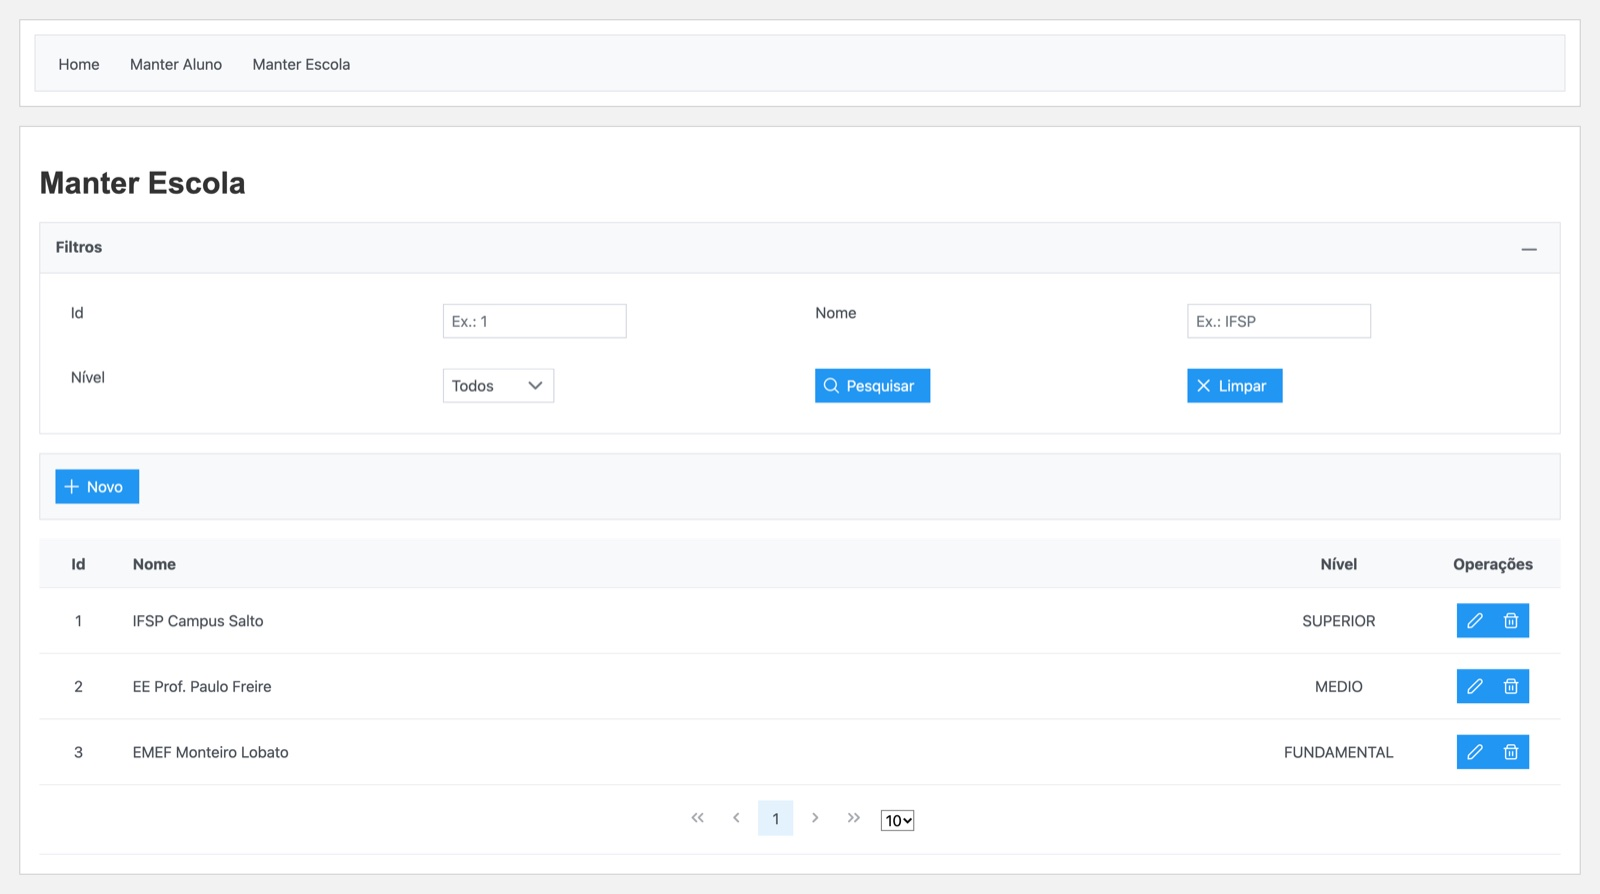
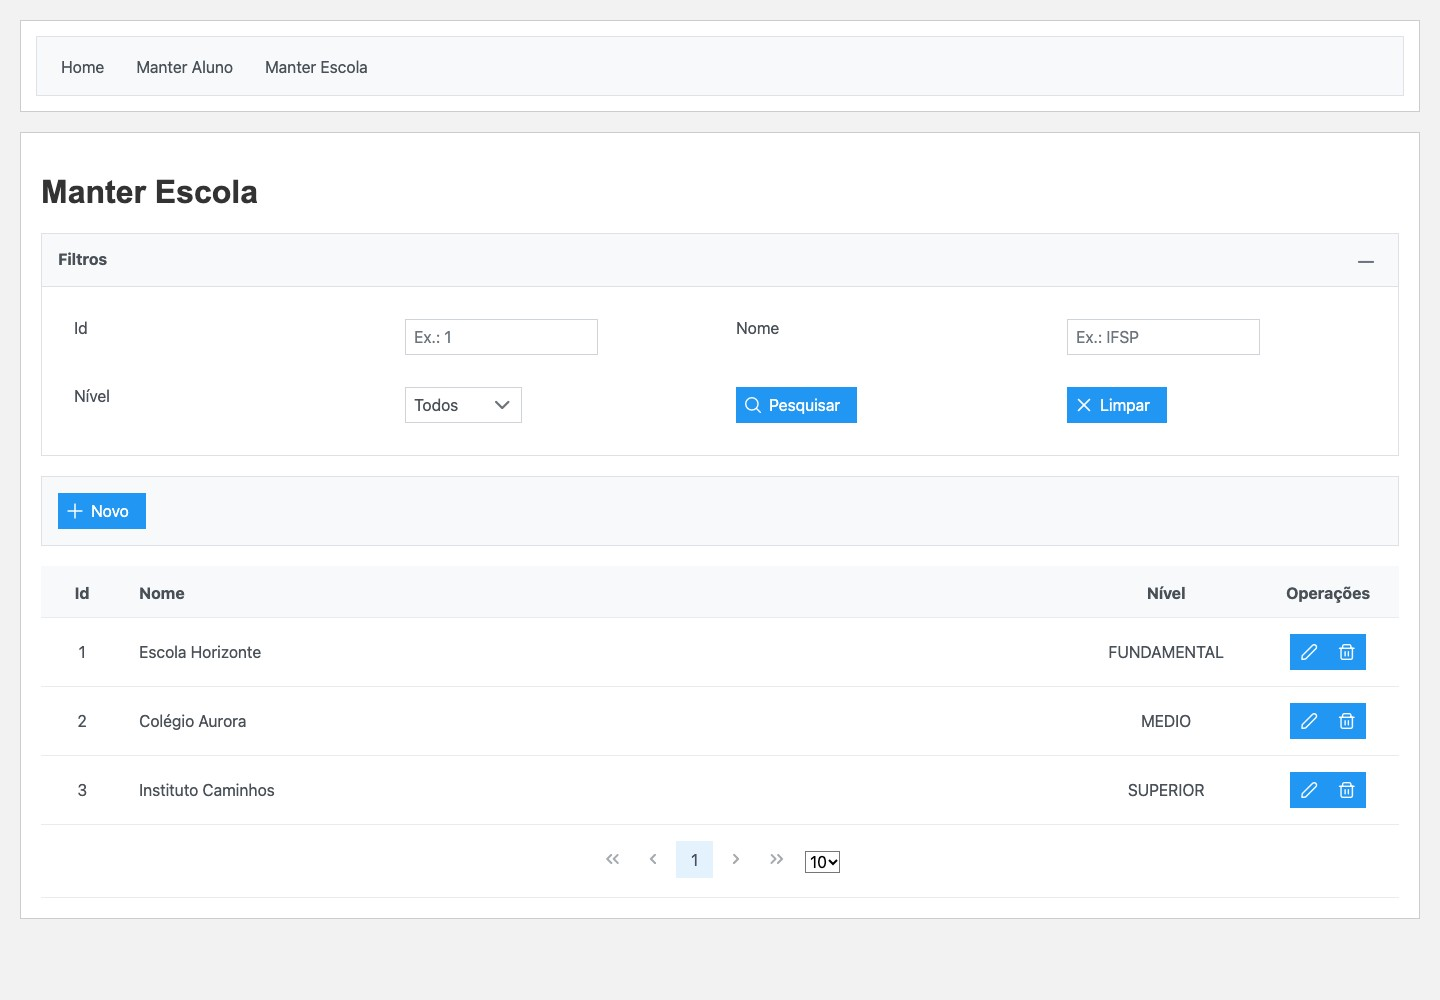
docs: standardize presentation and refresh student and school screenshots

diff --git a/README.md b/README.md
@@ -1,138 +1,118 @@
-# IF-Aluno
+# IF-Aluno — Students and schools
 
-CRUD for **students** (alunos) and **schools** (escolas) built for the Programming Language 2 course (IFSP).
-A Spring Boot REST API stores the data in PostgreSQL. A JSF/PrimeFaces frontend consumes that API.
+A student and school management application with a Spring Boot REST API and a
+JSF/PrimeFaces web interface.
 
-## Features
+**Status:** Academic project · Programming Language 2, IFSP.
 
-- **Students**: create, list, filter, edit and delete.
-  - Fields: name, email, enrollment number, CPF, height, phone, date of birth and active.
-  - Validation: name with 3 to 100 characters, valid email, CPF in the `XXX.XXX.XXX-XX` format, height greater than zero, phone like `(16) 99123-4567` and date of birth in the past. All fields are required.
-  - Email and enrollment number are unique. A duplicate value returns `409 Conflict`.
-- **Schools**: create, list, filter, edit and delete.
-  - Fields: name (3 to 100 characters) and level (`FUNDAMENTAL`, `MEDIO` or `SUPERIOR`).
-- **Filters**: text fields are matched by substring, case-insensitive. An omitted filter is ignored.
-- **Errors**: validation failures and malformed data return `400` with a standard JSON body (`mensagem`, `mensagens` and `campos`, which holds the error for each field).
+[![CI](https://github.com/ErickHTF/IF-Aluno/actions/workflows/ci.yml/badge.svg)](https://github.com/ErickHTF/IF-Aluno/actions/workflows/ci.yml)
 
-## Screenshots
+[Run locally](#run-locally) · [Development guide](docs/development.md) ·
+[Architecture](docs/architecture.md) · [API reference](docs/api.md)
 
-![Students screen: filters, list and actions](docs/screenshots/students.jpg)
+![Student management screen with filters and registered students](docs/screenshots/students.jpg)
 
 <details>
-<summary>Schools screen</summary>
+<summary>School management</summary>
 
-![Schools screen](docs/screenshots/schools.jpg)
+![School management screen with registered schools](docs/screenshots/schools.jpg)
+
 </details>
 
-## Architecture
+_The interface is in Brazilian Portuguese. Screenshots use synthetic data._
 
-```
-Browser ──► JSF Frontend (Tomcat 9, :8080) ──HTTP/JSON──► Spring Boot API (:8081) ──JPA──► PostgreSQL (Docker, :5433)
-```
+## Overview
 
-| Folder | Contents |
-|---|---|
-| `/` (root) | REST API, `com.demo` package, with `aluno`, `escola` and `config` modules |
-| `frontend/if-aluno-jsf` | JSF/PrimeFaces frontend, packaged as a WAR |
+IF-Aluno demonstrates a server-rendered Java frontend consuming a separate REST
+API. Both student and school records support a complete management workflow.
 
-The frontend calls the API at `http://localhost:8081/demo-api`. That URL is set in `ifaluno.utils.JsonUtils.BASE_API`.
+- Create, list, filter, edit and delete students and schools.
+- Validate student contact information, enrollment and birth dates.
+- Reject duplicate email addresses and enrollment numbers.
+- Display field validation and API errors in the interface.
 
-## Requirements
+## Stack
 
-| Item | Version |
-|---|---|
-| JDK | 21 (the API uses Java 21; the frontend compiles to Java 17) |
-| Docker / Docker Compose | any recent version (to run PostgreSQL 13.22) |
-| Maven | no install needed: use the `mvnw` wrapper (Maven 3.9.16) |
+| Layer             | Technologies                             |
+| ----------------- | ---------------------------------------- |
+| Frontend          | JSF, PrimeFaces, Weld, Tomcat 9          |
+| Backend           | Java 21, Spring Boot 4, Spring Data JPA  |
+| Database          | PostgreSQL 13, Docker Compose            |
+| API documentation | springdoc-openapi                        |
+| Verification      | Maven, Spring Boot tests, GitHub Actions |
 
-Main dependencies: Spring Boot 4.1.0, springdoc-openapi 2.8.6, JSF (Mojarra) 2.4.0, PrimeFaces 14.0.0, Weld 3.1.9 and Tomcat 9.0.98, which Cargo downloads on its own.
+## Run locally
 
-## Getting Started
-
-Run the steps in order, each in its own terminal.
-
-**Linux / macOS**
+Install **Java 21**, **Git**, and **Docker with Docker Compose**. Maven is
+included through the wrappers.
 
 ```bash
-# 1. Database (from the root)
+git clone https://github.com/ErickHTF/IF-Aluno.git
+cd IF-Aluno
+```
+
+Run these commands in separate terminals, starting from the repository root:
+
+```bash
+# Terminal 1 — database
 docker compose up -d
+```
 
-# 2. API (from the root)
+```bash
+# Terminal 2 — API on port 8081
 ./mvnw spring-boot:run
+```
 
-# 3. Frontend
+```bash
+# Terminal 3 — JSF frontend on port 8080
 cd frontend/if-aluno-jsf
 ./mvnw clean package cargo:run
 ```
 
-**Windows (cmd / PowerShell)**
+Open [localhost:8080/if-aluno-jsf/](http://localhost:8080/if-aluno-jsf/).
+Cargo downloads Tomcat and deploys the frontend WAR. The API creates the database
+tables on startup.
 
-```bat
-:: 1. Database (from the root)
-docker compose up -d
+See the [development guide](docs/development.md) for Windows commands, dependency
+versions, database credentials and service URLs.
 
-:: 2. API (from the root)
-mvnw.cmd spring-boot:run
+## Verification
 
-:: 3. Frontend
-cd frontend\if-aluno-jsf
-mvnw.cmd clean package cargo:run
-```
-
-In IntelliJ, you can also start the API with the Run button on `DemoApplication`.
-
-Tables are created automatically on first run (`ddl-auto=update`).
-
-## Ports and URLs
-
-| Service | Port | URL |
-|---|---|---|
-| PostgreSQL (Docker) | 5433 | `jdbc:postgresql://localhost:5433/Aluno` (user `aluno_user`, password `aluno_password`) |
-| API (Spring Boot) | 8081 | http://localhost:8081/demo-api |
-| Swagger UI | 8081 | http://localhost:8081/swagger-ui/index.html |
-| Frontend (Tomcat 9) | 8080 | http://localhost:8080/if-aluno-jsf/ |
-
-## API Endpoints
-
-All endpoints live under the `/demo-api` prefix.
-
-| Method | Route | Description |
-|---|---|---|
-| GET | `/alunos` | Lists all students |
-| GET | `/alunos/{id}` | Gets a student by id (`404` if not found) |
-| GET | `/aluno?id=&nome=&email=&matricula=` | Filters students (all parameters are optional) |
-| POST | `/alunos` | Creates a student (`201`) |
-| PUT | `/alunos/{id}` | Updates a student (`404` if not found) |
-| DELETE | `/alunos/{id}` | Deletes a student |
-| GET | `/escolas` | Lists all schools |
-| GET | `/escolas/{id}` | Gets a school by id (`404` if not found) |
-| GET | `/escola?id=&nome=&nivel=` | Filters schools (all parameters are optional) |
-| POST | `/escolas` | Creates a school (`201`) |
-| PUT | `/escolas/{id}` | Updates a school (`404` if not found) |
-| DELETE | `/escolas/{id}` | Deletes a school |
-
-Example body for `POST /demo-api/alunos`:
-
-```json
-{
-  "nome": "João Silva",
-  "email": "email@aluno.ifsp.edu.br",
-  "matricula": "SP123456",
-  "cpf": "358.823.769-41",
-  "altura": 1.75,
-  "telefone": "(16) 99123-4567",
-  "dtNasc": "2005-03-15",
-  "ativo": true
-}
-```
-
-The Postman collections are in `src/main/resources/`.
-
-## Build and Tests
+Keep the local PostgreSQL database running, then execute from the repository root:
 
 ```bash
-./mvnw verify                                  # API (the test needs Postgres running)
-cd frontend/if-aluno-jsf && ./mvnw package     # produces target/if-aluno-jsf.war
+./mvnw verify
+cd frontend/if-aluno-jsf
+./mvnw package
 ```
 
-GitHub Actions (`.github/workflows/ci.yml`) runs both builds on every push to `main` and on every pull request. In CI, PostgreSQL runs as a service container.
+CI verifies the API and builds the frontend with a PostgreSQL service container.
+
+## Architecture
+
+```mermaid
+flowchart LR
+    Browser[Browser] --> JSF[JSF / PrimeFaces on Tomcat]
+    JSF -->|HTTP / JSON| API[Spring Boot API]
+    API -->|JPA| DB[(PostgreSQL)]
+```
+
+The JSF server consumes the API; the browser interacts with the rendered pages.
+The API separates student and school controllers, services and repositories.
+Read the [architecture guide](docs/architecture.md) for the source layout and
+frontend API configuration.
+
+## Documentation
+
+| Guide                                | Contents                                         |
+| ------------------------------------ | ------------------------------------------------ |
+| [Development](docs/development.md)   | Setup, ports, dependencies and build commands    |
+| [Architecture](docs/architecture.md) | Source layout and communication between services |
+| [API reference](docs/api.md)         | Routes, validation rules and request examples    |
+
+## Project context
+
+Developed for the Programming Language 2 course at IFSP. The domain names and
+interface are in Portuguese; this README provides an English overview.
+
+No license is currently included in this repository.

diff --git a/docs/api.md b/docs/api.md
@@ -1,0 +1,50 @@
+# API reference
+
+[← Back to README](../README.md)
+
+## Features
+
+- **Students**: create, list, filter, edit and delete.
+  - Fields: name, email, enrollment number, CPF, height, phone, date of birth and active.
+  - Validation: name with 3 to 100 characters, valid email, CPF in the `XXX.XXX.XXX-XX` format, height greater than zero, phone like `(16) 99123-4567` and date of birth in the past. All fields are required.
+  - Email and enrollment number are unique. A duplicate value returns `409 Conflict`.
+- **Schools**: create, list, filter, edit and delete.
+  - Fields: name (3 to 100 characters) and level (`FUNDAMENTAL`, `MEDIO` or `SUPERIOR`).
+- **Filters**: text fields are matched by substring, case-insensitive. An omitted filter is ignored.
+- **Errors**: validation failures and malformed data return `400` with a standard JSON body (`mensagem`, `mensagens` and `campos`, which holds the error for each field).
+
+## API Endpoints
+
+All endpoints live under the `/demo-api` prefix.
+
+| Method | Route                                | Description                                    |
+| ------ | ------------------------------------ | ---------------------------------------------- |
+| GET    | `/alunos`                            | Lists all students                             |
+| GET    | `/alunos/{id}`                       | Gets a student by id (`404` if not found)      |
+| GET    | `/aluno?id=&nome=&email=&matricula=` | Filters students (all parameters are optional) |
+| POST   | `/alunos`                            | Creates a student (`201`)                      |
+| PUT    | `/alunos/{id}`                       | Updates a student (`404` if not found)         |
+| DELETE | `/alunos/{id}`                       | Deletes a student                              |
+| GET    | `/escolas`                           | Lists all schools                              |
+| GET    | `/escolas/{id}`                      | Gets a school by id (`404` if not found)       |
+| GET    | `/escola?id=&nome=&nivel=`           | Filters schools (all parameters are optional)  |
+| POST   | `/escolas`                           | Creates a school (`201`)                       |
+| PUT    | `/escolas/{id}`                      | Updates a school (`404` if not found)          |
+| DELETE | `/escolas/{id}`                      | Deletes a school                               |
+
+Example body for `POST /demo-api/alunos`:
+
+```json
+{
+  "nome": "João Silva",
+  "email": "email@aluno.ifsp.edu.br",
+  "matricula": "SP123456",
+  "cpf": "358.823.769-41",
+  "altura": 1.75,
+  "telefone": "(16) 99123-4567",
+  "dtNasc": "2005-03-15",
+  "ativo": true
+}
+```
+
+The Postman collections are in `src/main/resources/`.

diff --git a/docs/development.md b/docs/development.md
@@ -1,0 +1,67 @@
+# Development guide
+
+[← Back to README](../README.md)
+
+## Requirements
+
+| Item                    | Version                                                     |
+| ----------------------- | ----------------------------------------------------------- |
+| JDK                     | 21 (the API uses Java 21; the frontend compiles to Java 17) |
+| Docker / Docker Compose | any recent version (to run PostgreSQL 13.22)                |
+| Maven                   | no install needed: use the `mvnw` wrapper (Maven 3.9.16)    |
+
+Main dependencies: Spring Boot 4.1.0, springdoc-openapi 2.8.6, JSF (Mojarra) 2.4.0, PrimeFaces 14.0.0, Weld 3.1.9 and Tomcat 9.0.98, which Cargo downloads on its own.
+
+## Getting Started
+
+Run the steps in order, each in its own terminal.
+
+**Linux / macOS**
+
+```bash
+# 1. Database (from the root)
+docker compose up -d
+
+# 2. API (from the root)
+./mvnw spring-boot:run
+
+# 3. Frontend
+cd frontend/if-aluno-jsf
+./mvnw clean package cargo:run
+```
+
+**Windows (cmd / PowerShell)**
+
+```bat
+:: 1. Database (from the root)
+docker compose up -d
+
+:: 2. API (from the root)
+mvnw.cmd spring-boot:run
+
+:: 3. Frontend
+cd frontend\if-aluno-jsf
+mvnw.cmd clean package cargo:run
+```
+
+In IntelliJ, you can also start the API with the Run button on `DemoApplication`.
+
+Tables are created automatically on first run (`ddl-auto=update`).
+
+## Ports and URLs
+
+| Service             | Port | URL                                                                                     |
+| ------------------- | ---- | --------------------------------------------------------------------------------------- |
+| PostgreSQL (Docker) | 5433 | `jdbc:postgresql://localhost:5433/Aluno` (user `aluno_user`, password `aluno_password`) |
+| API (Spring Boot)   | 8081 | http://localhost:8081/demo-api                                                          |
+| Swagger UI          | 8081 | http://localhost:8081/swagger-ui/index.html                                             |
+| Frontend (Tomcat 9) | 8080 | http://localhost:8080/if-aluno-jsf/                                                     |
+
+## Build and Tests
+
+```bash
+./mvnw verify                                  # API (the test needs Postgres running)
+cd frontend/if-aluno-jsf && ./mvnw package     # produces target/if-aluno-jsf.war
+```
+
+GitHub Actions (`.github/workflows/ci.yml`) runs both builds on every push to `main` and on every pull request. In CI, PostgreSQL runs as a service container.

diff --git a/docs/architecture.md b/docs/architecture.md
@@ -1,0 +1,16 @@
+# Architecture
+
+[← Back to README](../README.md)
+
+## Architecture
+
+```
+Browser ──► JSF Frontend (Tomcat 9, :8080) ──HTTP/JSON──► Spring Boot API (:8081) ──JPA──► PostgreSQL (Docker, :5433)
+```
+
+| Folder                  | Contents                                                                  |
+| ----------------------- | ------------------------------------------------------------------------- |
+| `/` (root)              | REST API, `com.demo` package, with `aluno`, `escola` and `config` modules |
+| `frontend/if-aluno-jsf` | JSF/PrimeFaces frontend, packaged as a WAR                                |
+
+The frontend calls the API at `http://localhost:8081/demo-api`. That URL is set in `ifaluno.utils.JsonUtils.BASE_API`.
